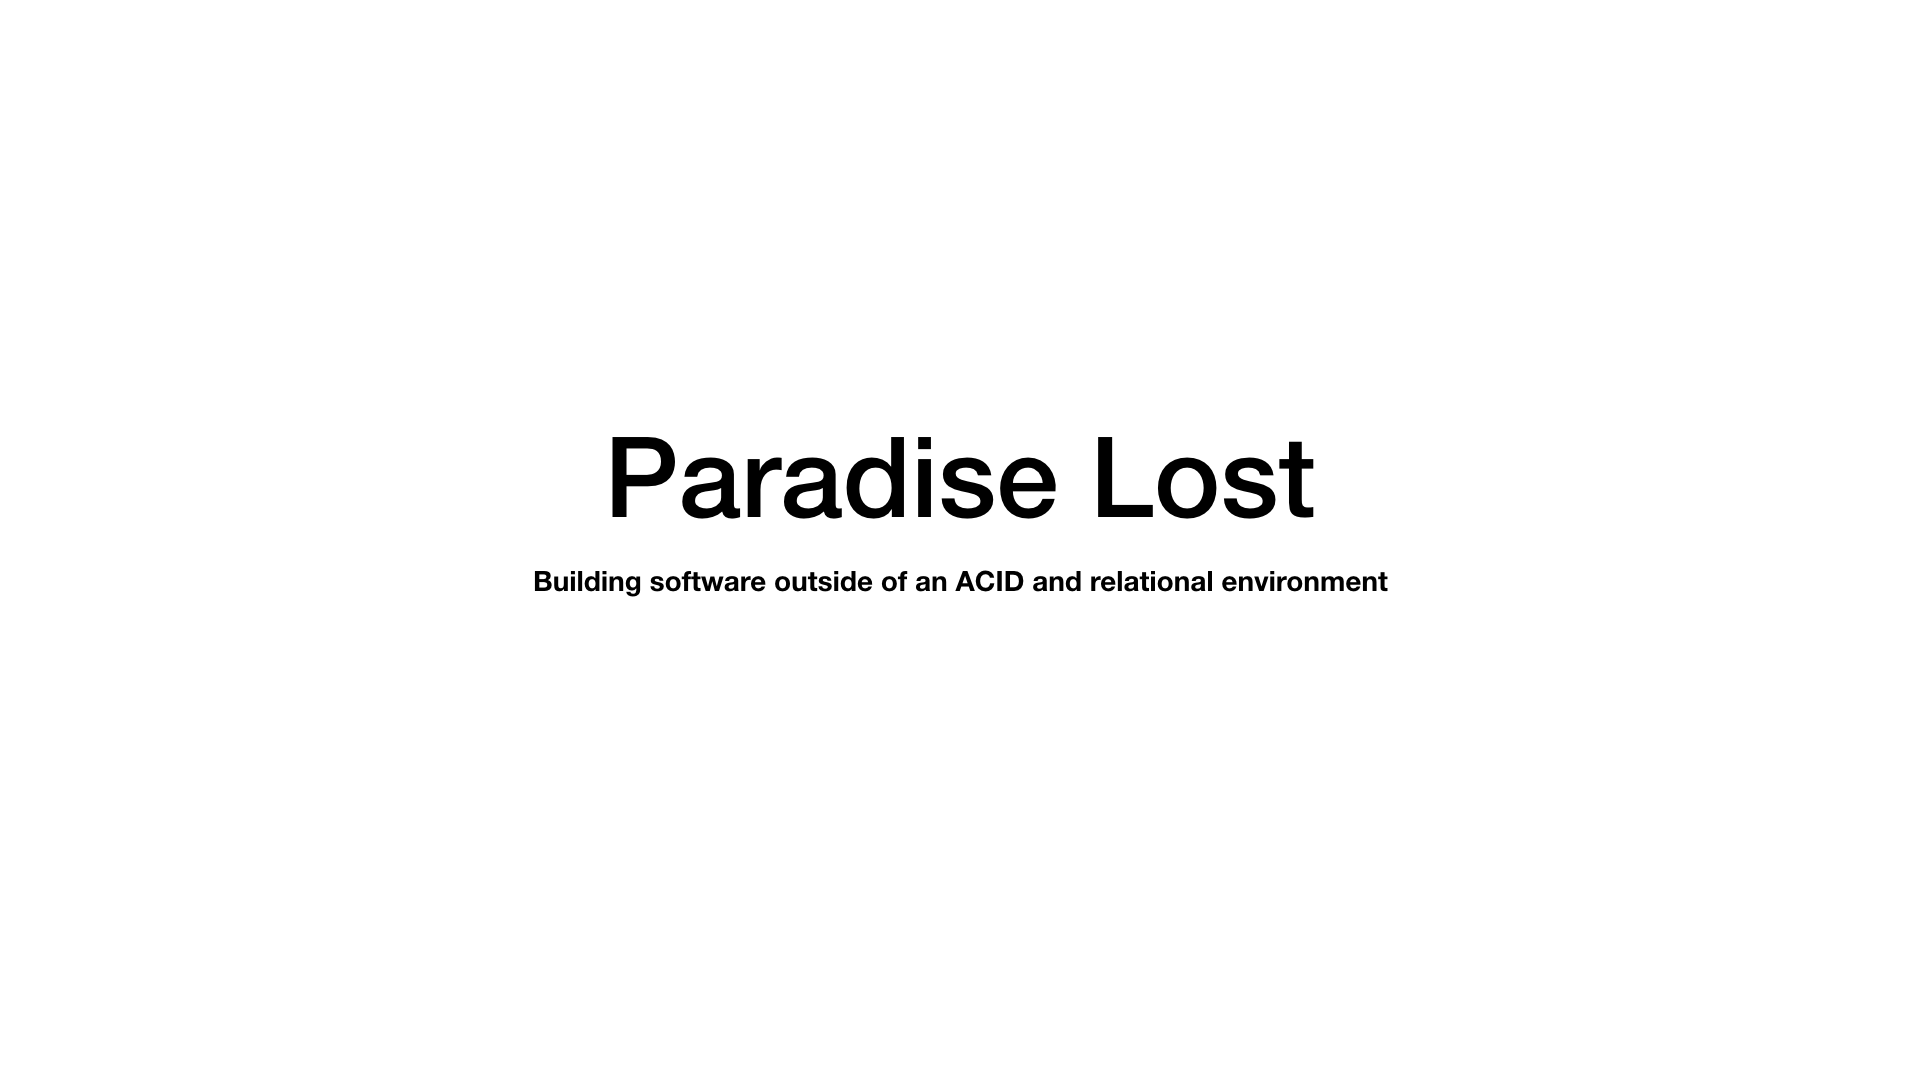
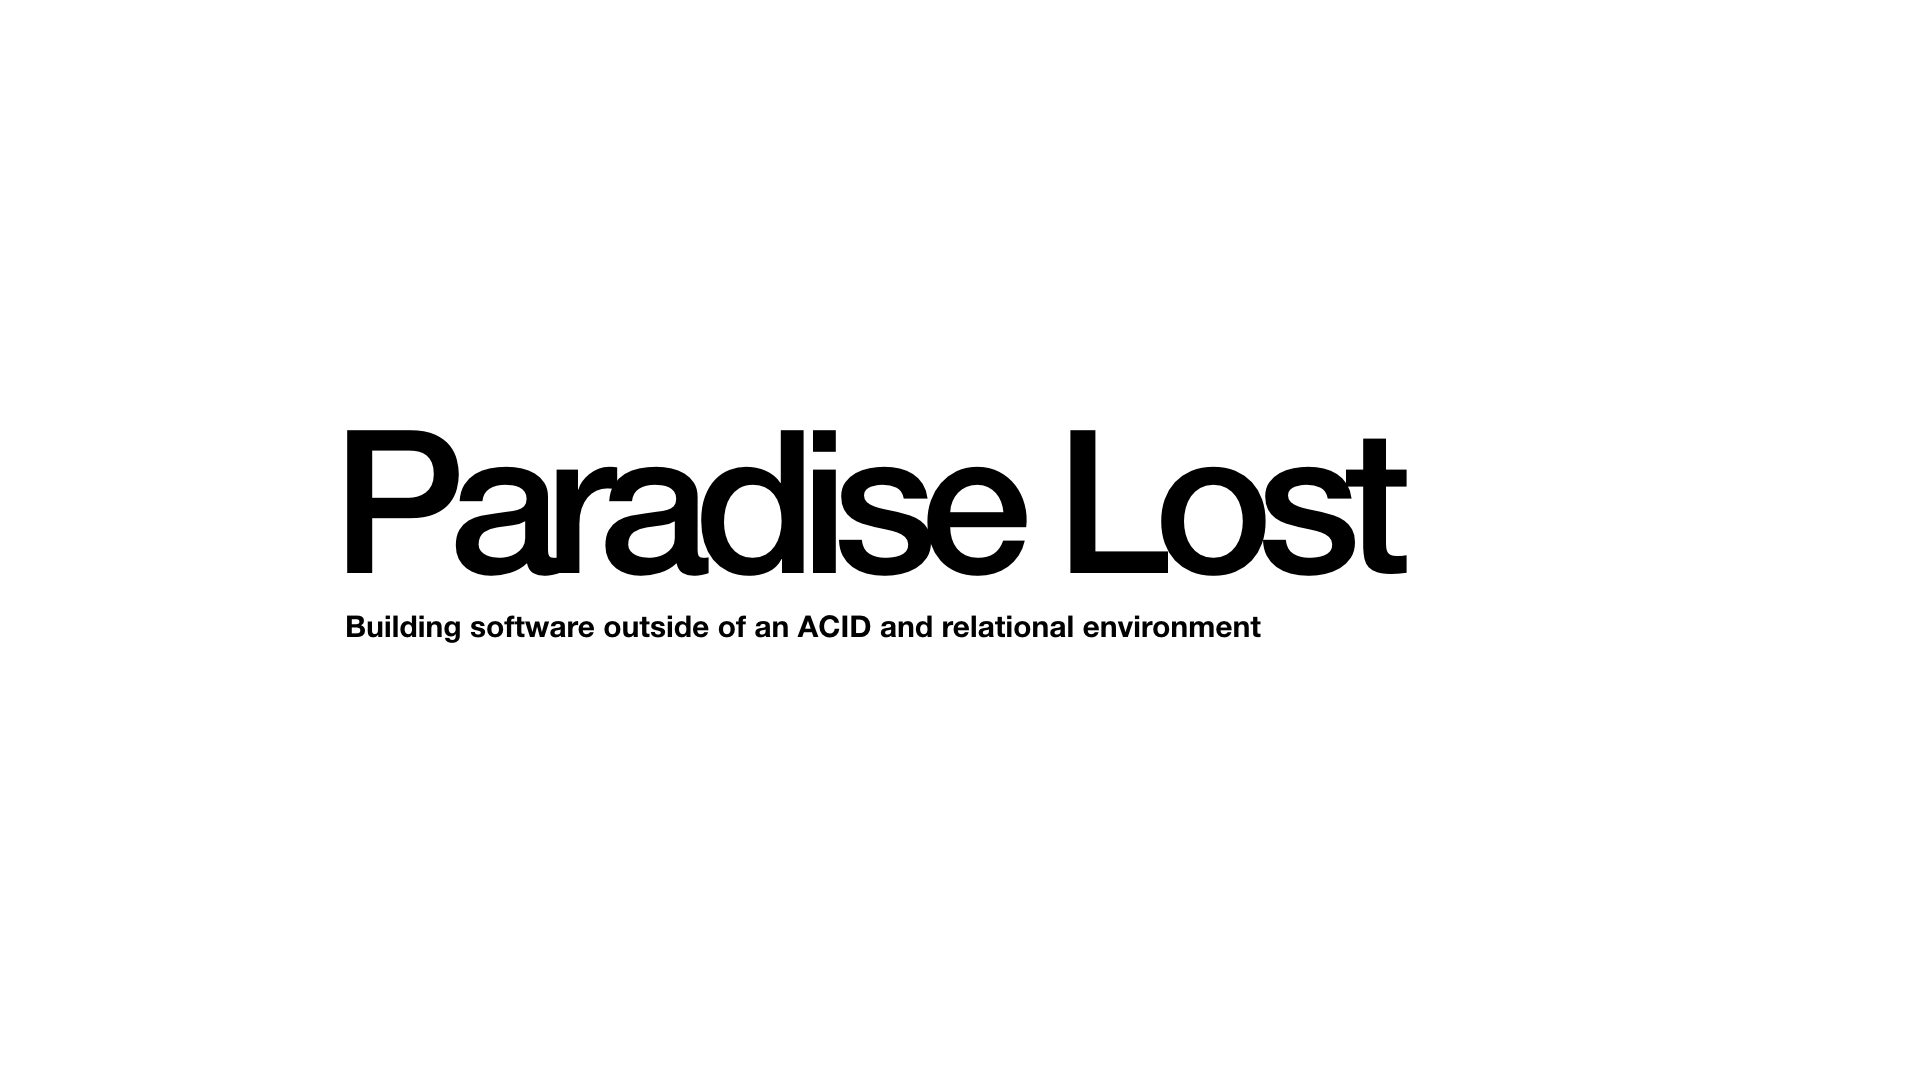
Support captionless images

Changed region(s): [[0.1562, 0.3972, 0.75, 0.6111]]

diff --git a/content/stylesheets/talk.sass b/content/stylesheets/talk.sass
@@ -58,6 +58,9 @@ body.talk
         margin: 0 0 20px 20px
         width: 550px
 
+      img.no-caption
+        width: 100%
+
       figcaption
         font-size: 0.85rem
         line-height: 1.5em
